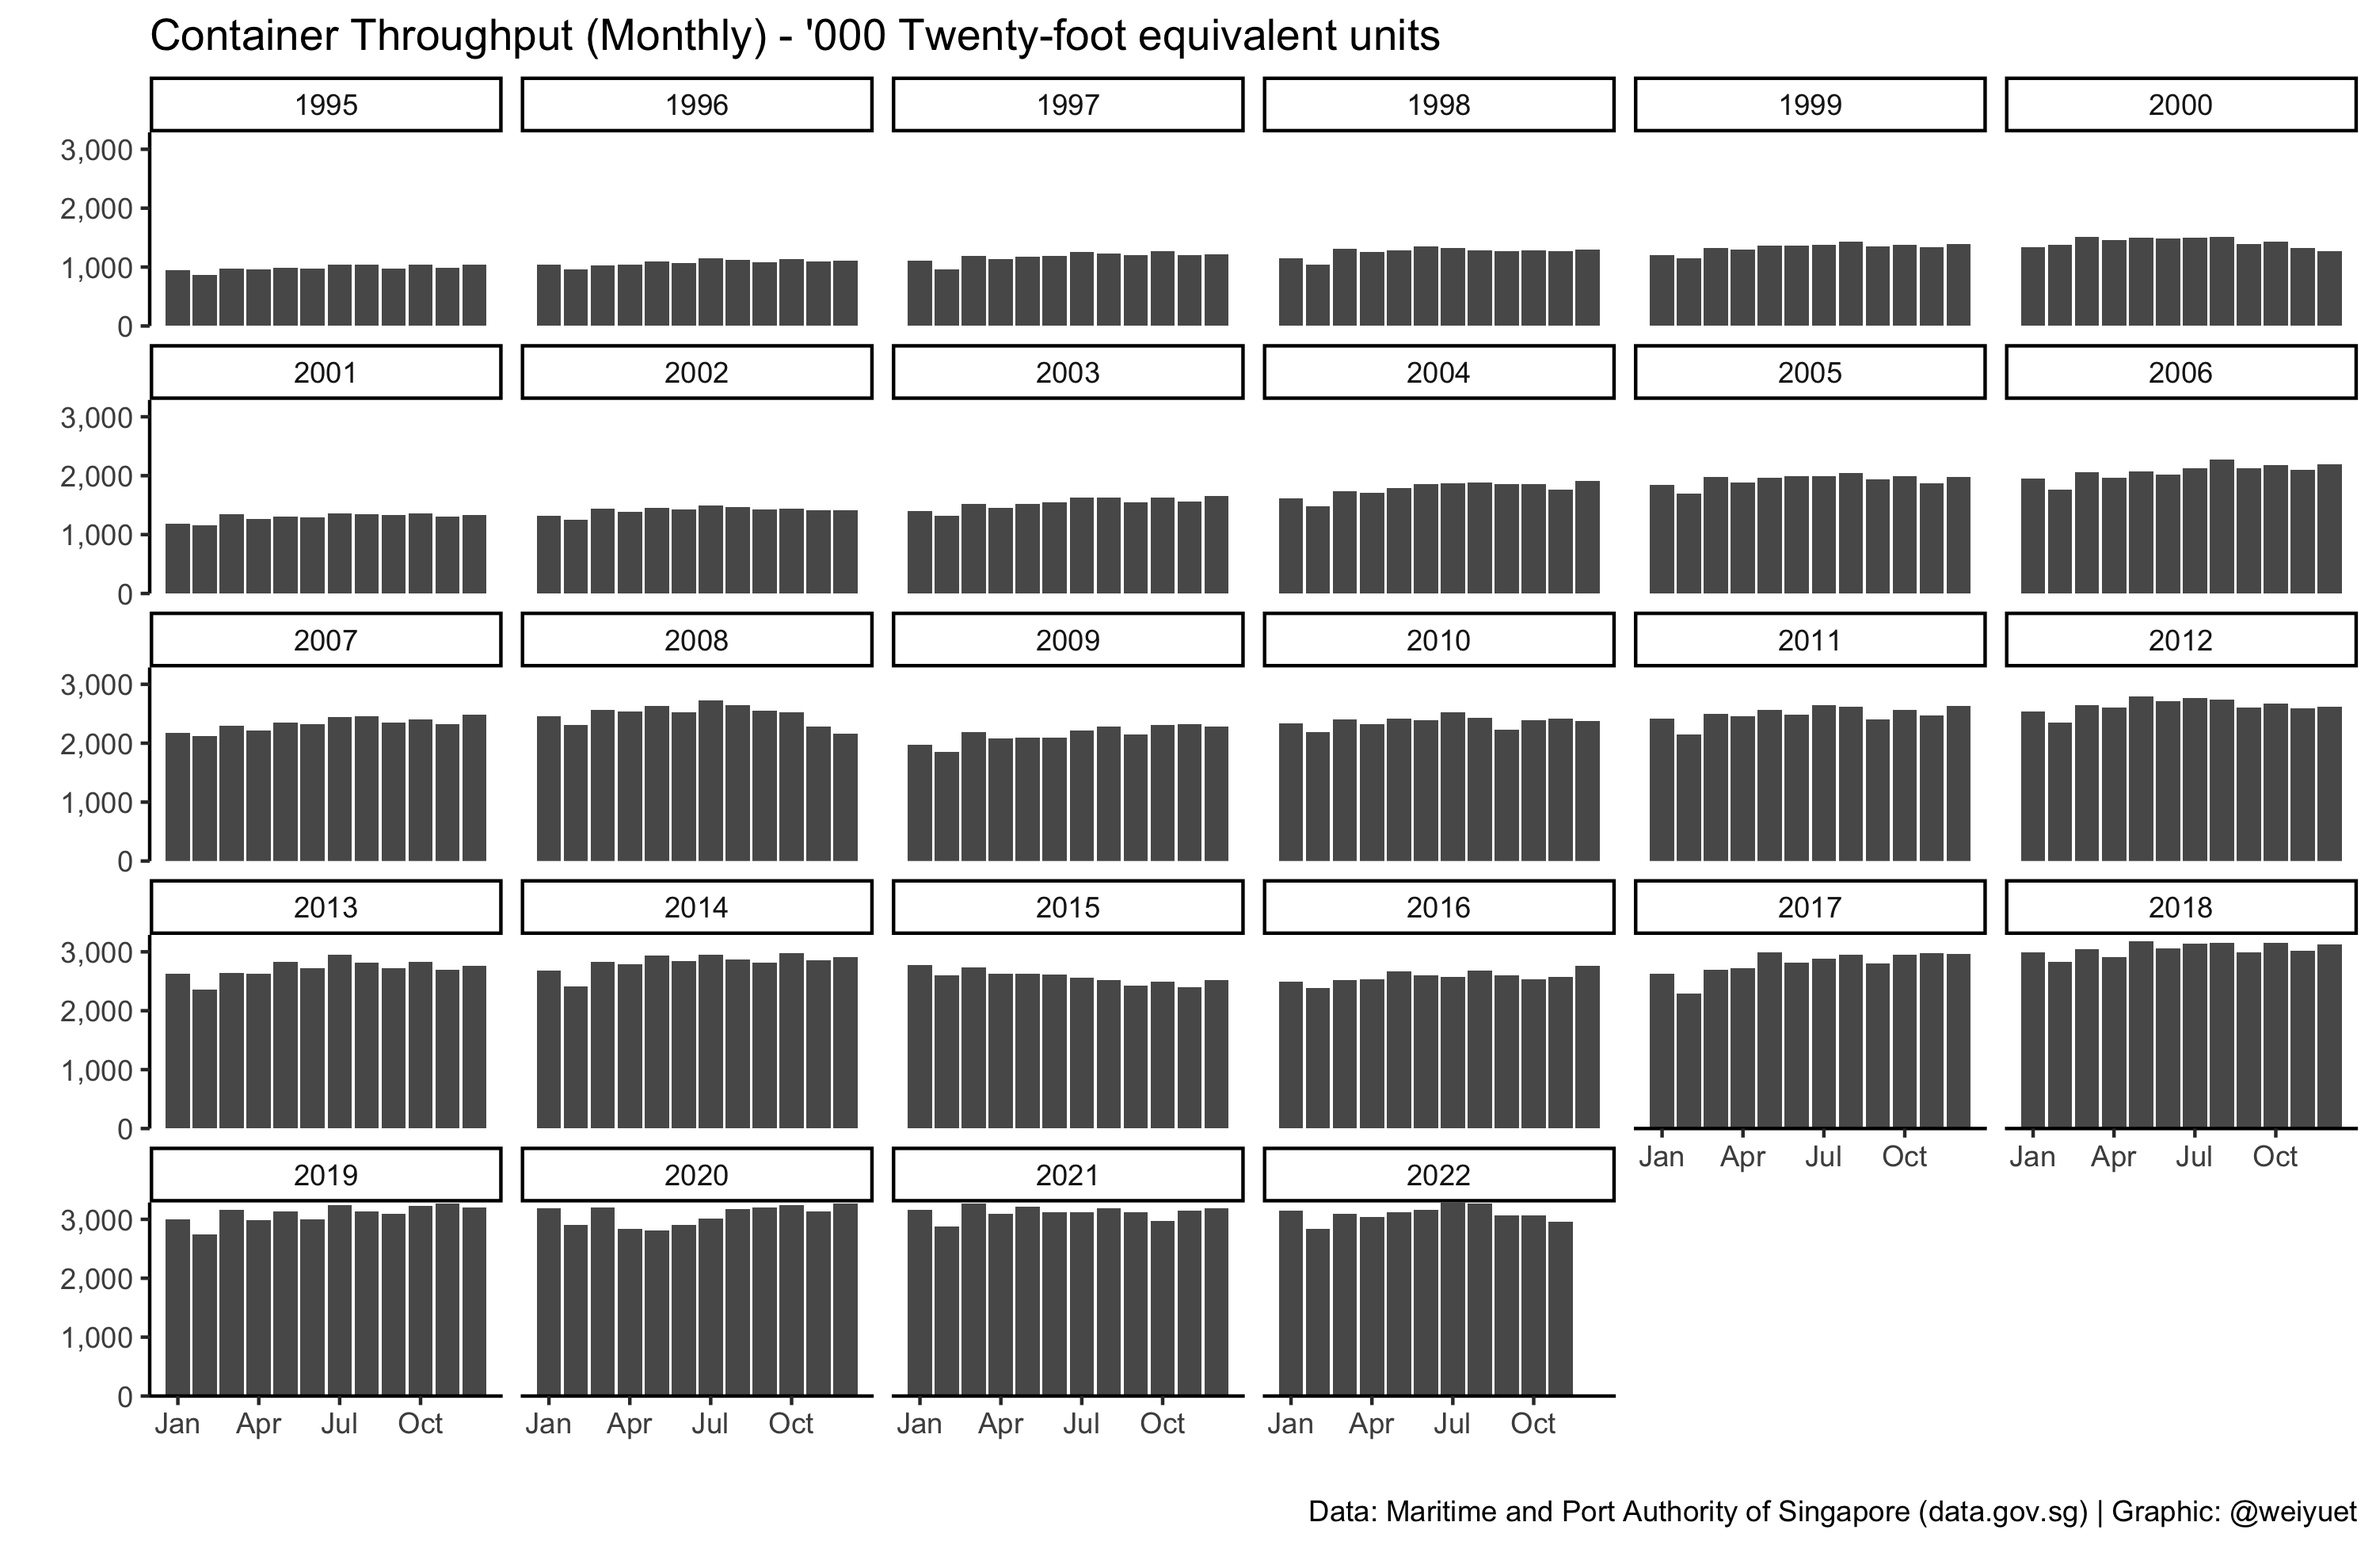
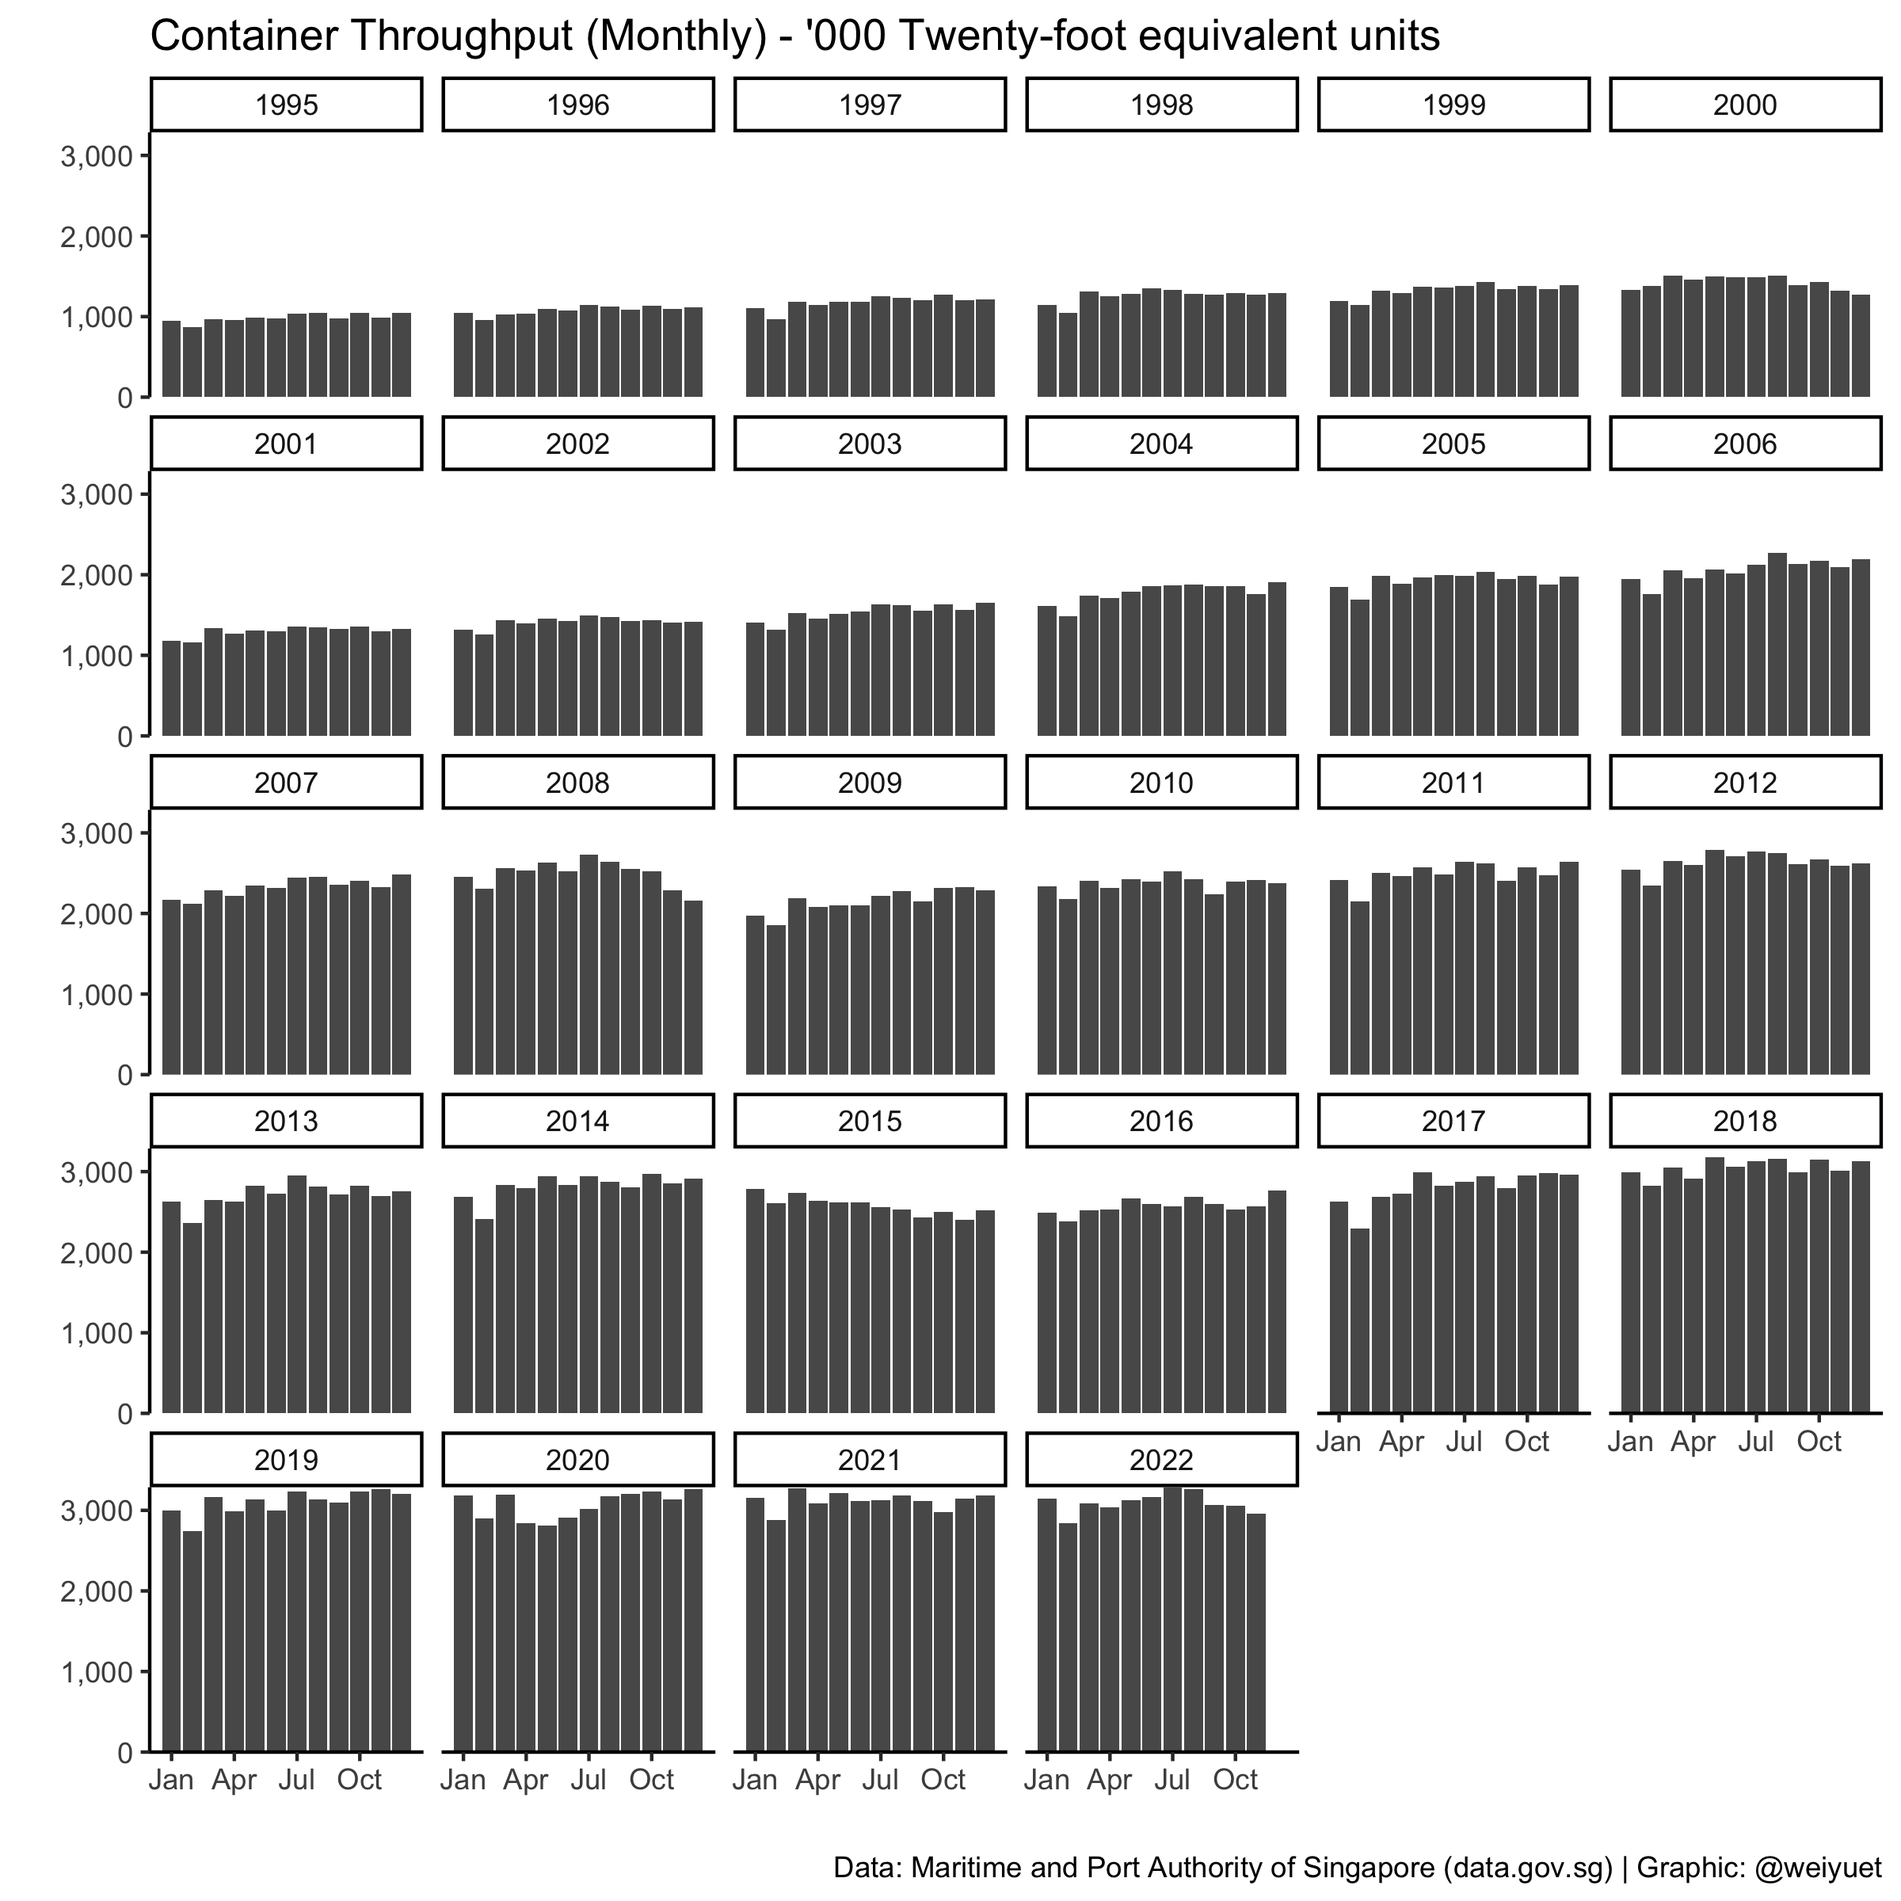
Updated various code for changes in ggplot2 3.4.0

Changed region(s): [[0.0312, 0.0, 1.0, 1.0]]

diff --git a/README.md b/README.md
@@ -9,7 +9,7 @@ Data:
   
 The `Singapore Open Data Licence` aims to promote and enable easy reuse of Public Sector data...
 
-Updated: 2022-12-31
+Updated: 2023-01-05
 
 ## CPI Indicators and Household Expenditure
 ![](https://github.com/weiyuet/singapore-data/blob/main/figures/cpi-indicators.png)
@@ -40,5 +40,8 @@ Updated: 2022-12-31
 
 ## Container Throughput Monthly
 ![](https://github.com/weiyuet/singapore-data/blob/main/figures/container-throughput-monthly.png)
+
+## Number of Rain Days Monthly
+![](https://github.com/weiyuet/singapore-data/blob/main/figures/number-of-rain-days-monthly.png)
 
 EOL
